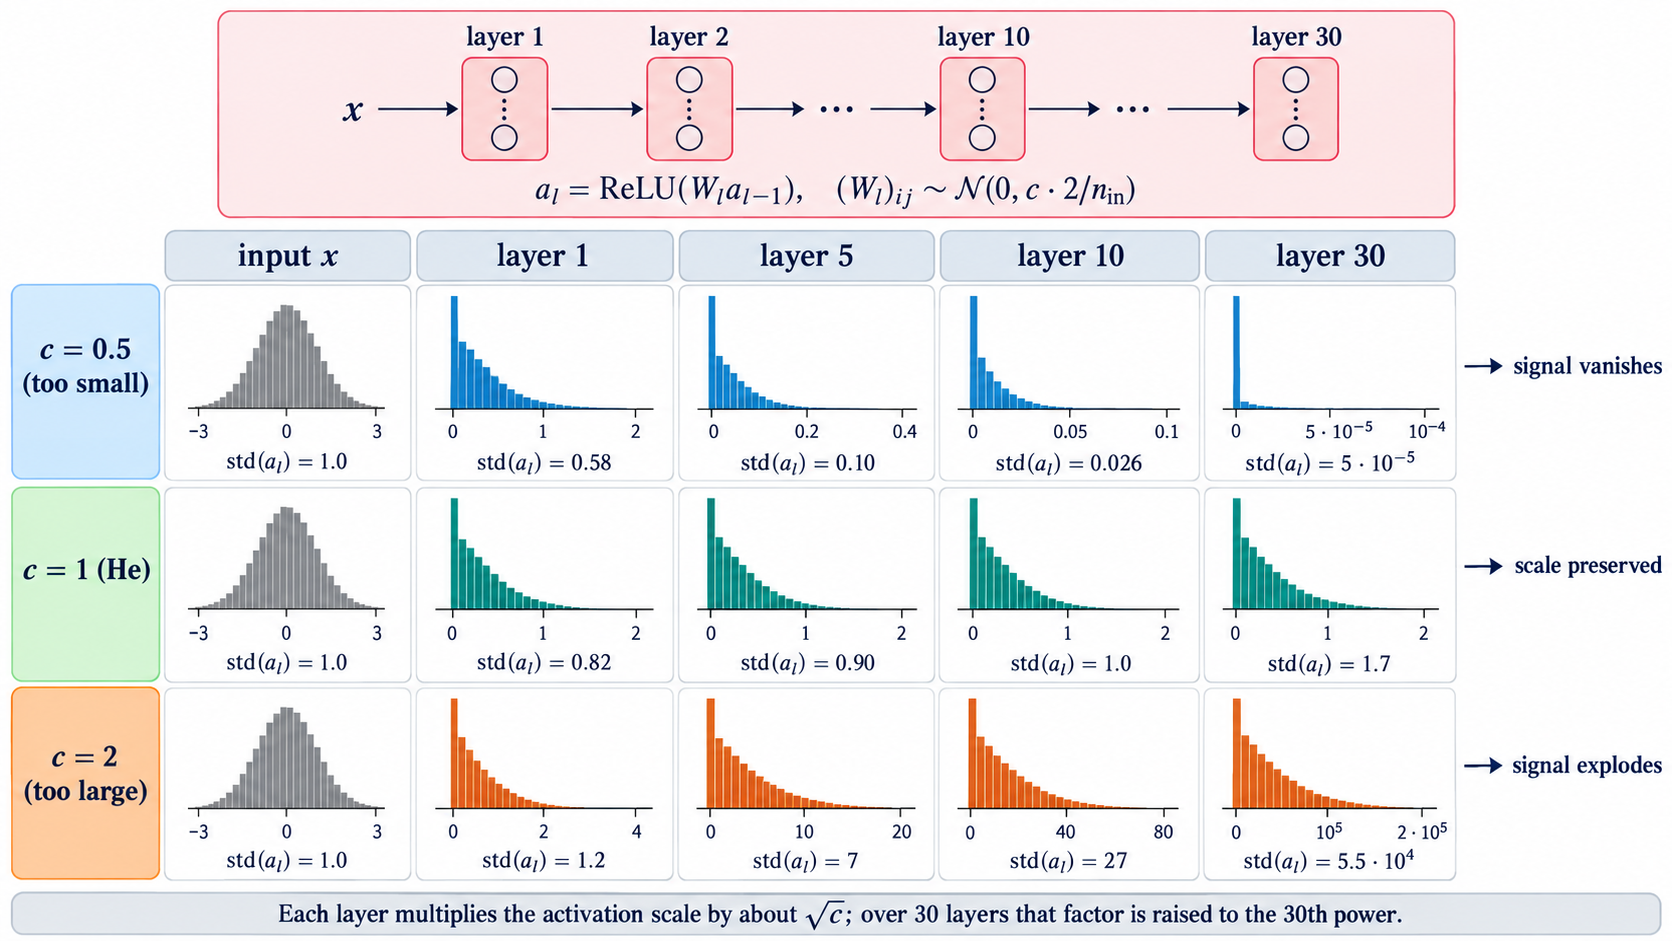
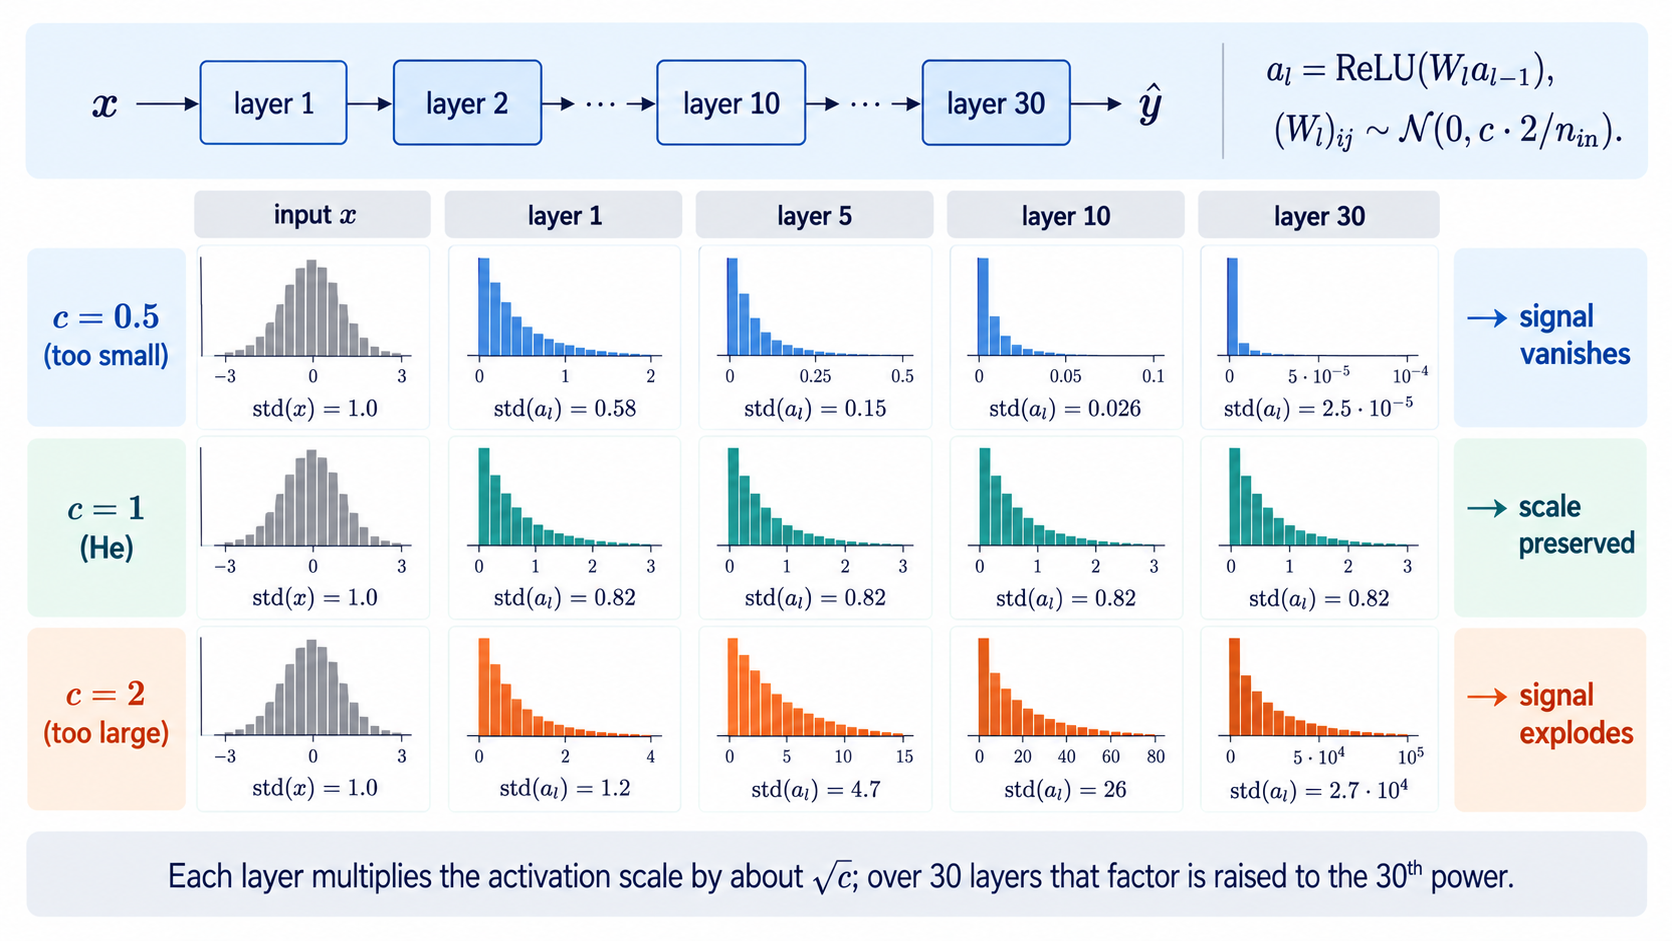
S02: replace F02 with corrected version (std(x), consistent std values)
Claude-Session: https://claude.ai/code/session_012SkrgDu3HsLNCjj3PJkQW9

diff --git a/sessions/02_deep_training/figures/figure_prompts.md b/sessions/02_deep_training/figures/figure_prompts.md
@@ -30,7 +30,7 @@ Slide numbers refer to the current `../slides/S02_slides.marp.md`.
 | S02-F23 | BatchNorm versus LayerNorm: which axis is normalized | done |
 | S02-F24 | Label-preserving data augmentation | done |
 | S02-F01 | Correction: typo and logo fixed; script 𝒥 remains (optional regeneration) | done |
-| S02-F02 | Correction: std(x) label and consistent numbers | **pending** |
+| S02-F02 | Correction: std(x) label and consistent numbers | done |
 | S02-F04 | Correction: backward direction and notation | **pending** |
 | S02-F07 | Correction: Xavier variance, tanh vs ReLU | **pending** |
 
@@ -323,7 +323,7 @@ Keep the current two-panel layout (left: "Single learning loop (shallow model)" 
 
 **Check:** no "Updsle"; no script J; no logo.
 
-## S02-F02 · Signal propagation through depth — correction (slide 10)
+## S02-F02 · Signal propagation through depth — correction (done)
 
 File: `s02_f02_signal_propagation.png`
 
